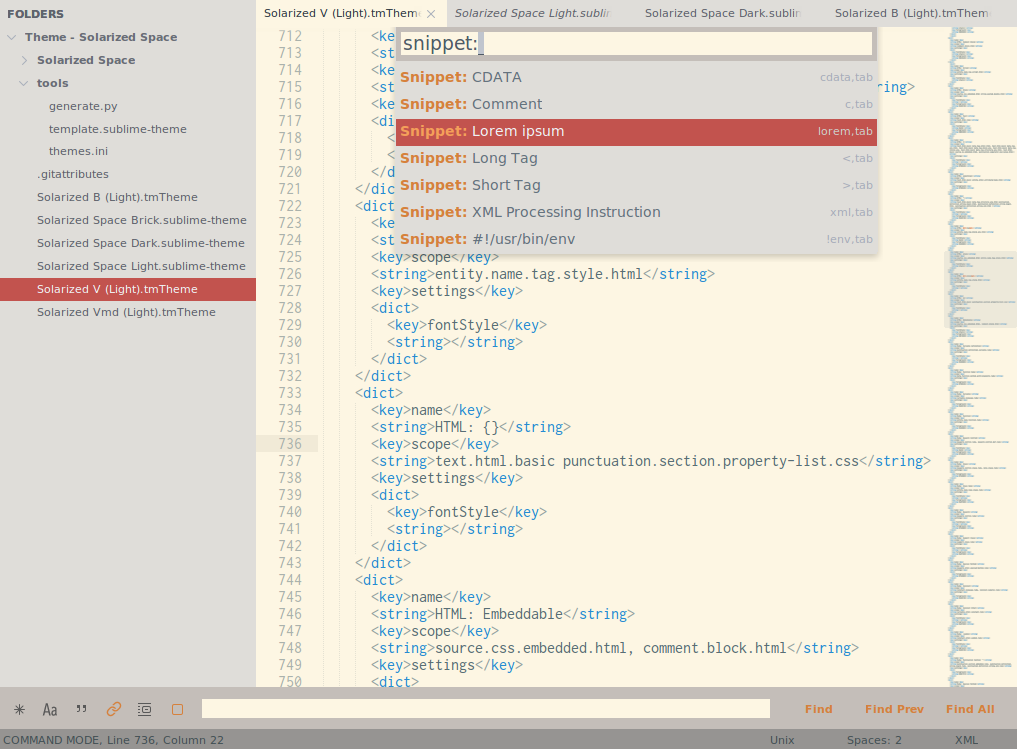
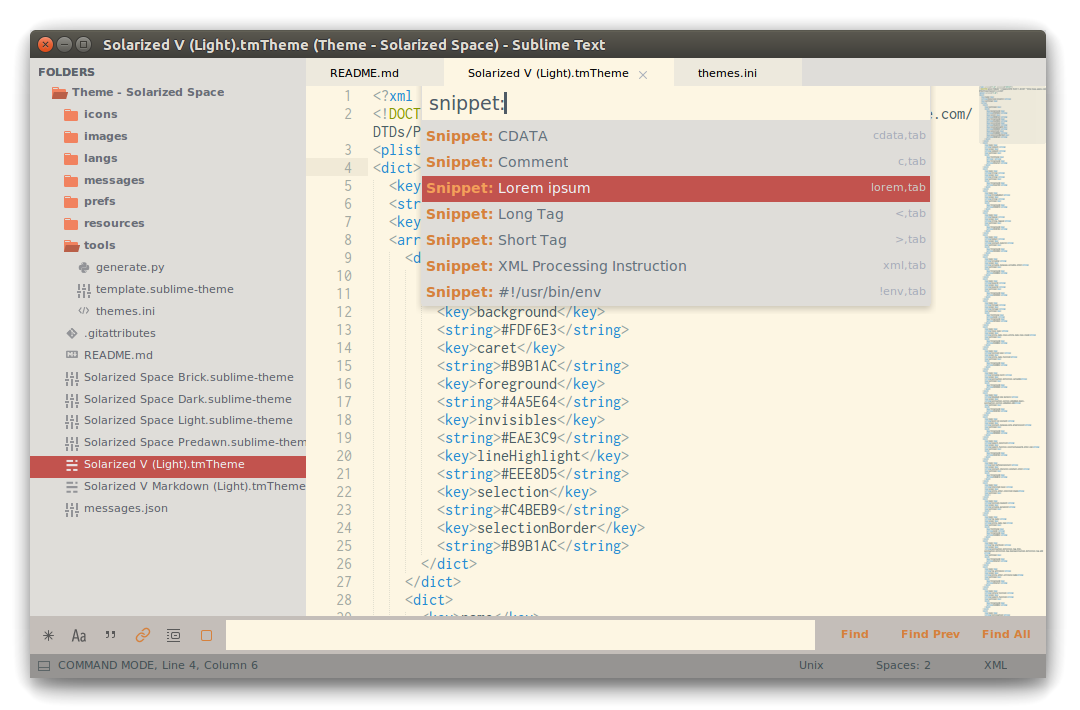
Prepare release

diff --git a/README.md b/README.md
@@ -4,10 +4,13 @@ Theme - Solarized Space
 Light and dark solarized themes for Sublime Text.
 
 Based on [Spacegray](https://kkga.github.io/spacegray/),
-[Sodarized](https://github.com/jrolfs/sodarized) and
+[Sodarized](https://github.com/jrolfs/sodarized),
+[Predawn](http://jamiewilson.io/predawn/) and
 [Piatto](https://github.com/samuelrafo/piatto) among other.
 
 Tweaks and ideas are welcome :)
+
+Note: To show or hide sidebar icons use setting `"hide_sidebar_icons"`.
 
 Themes
 ------
@@ -36,12 +39,21 @@ Themes
 
 ![image](images/dark.png)
 
+### Solarized Space Predawn
+
+```json
+"theme": "Solarized Space Predawn.sublime-theme",
+```
+
+![image](images/predawn.png)
+
 ### Related Options
 
 Try adding combinations of the following to your
 `User/Preferences.sublime-settings`
 
 ```json
+"hide_sidebar_icons": true,
 "always_show_minimap_viewport": true,
 "bold_folder_labels": true,
 "enable_tab_scrolling": false,
